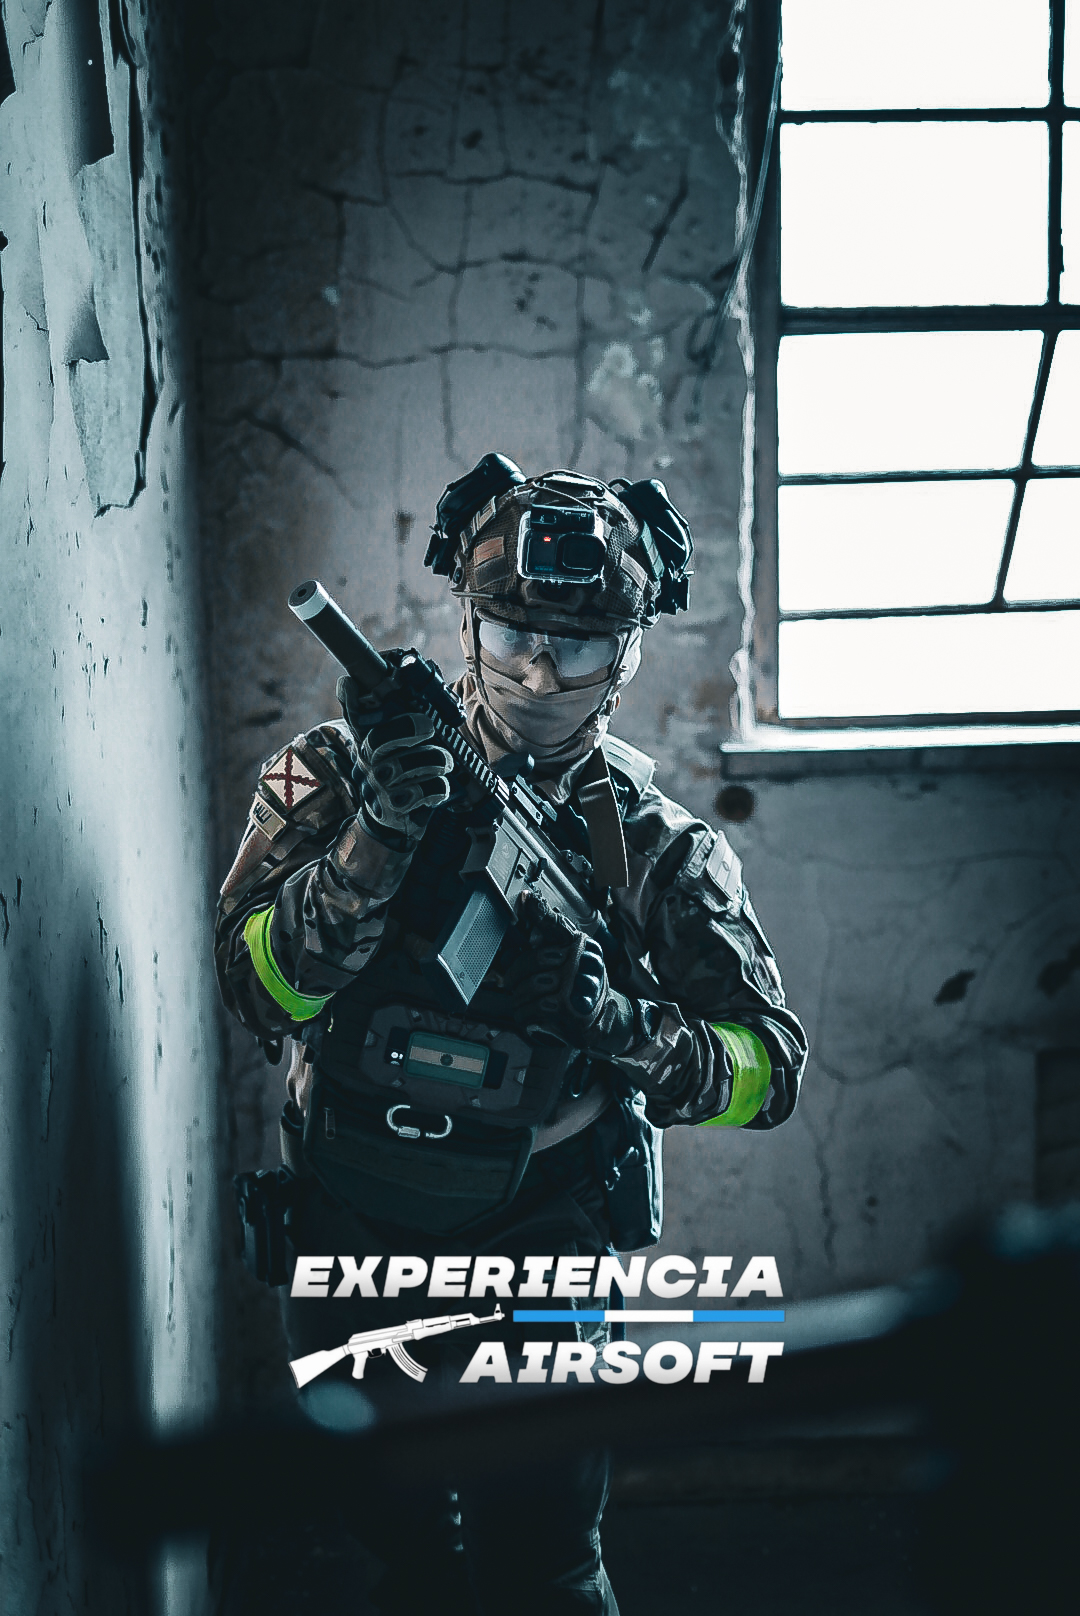
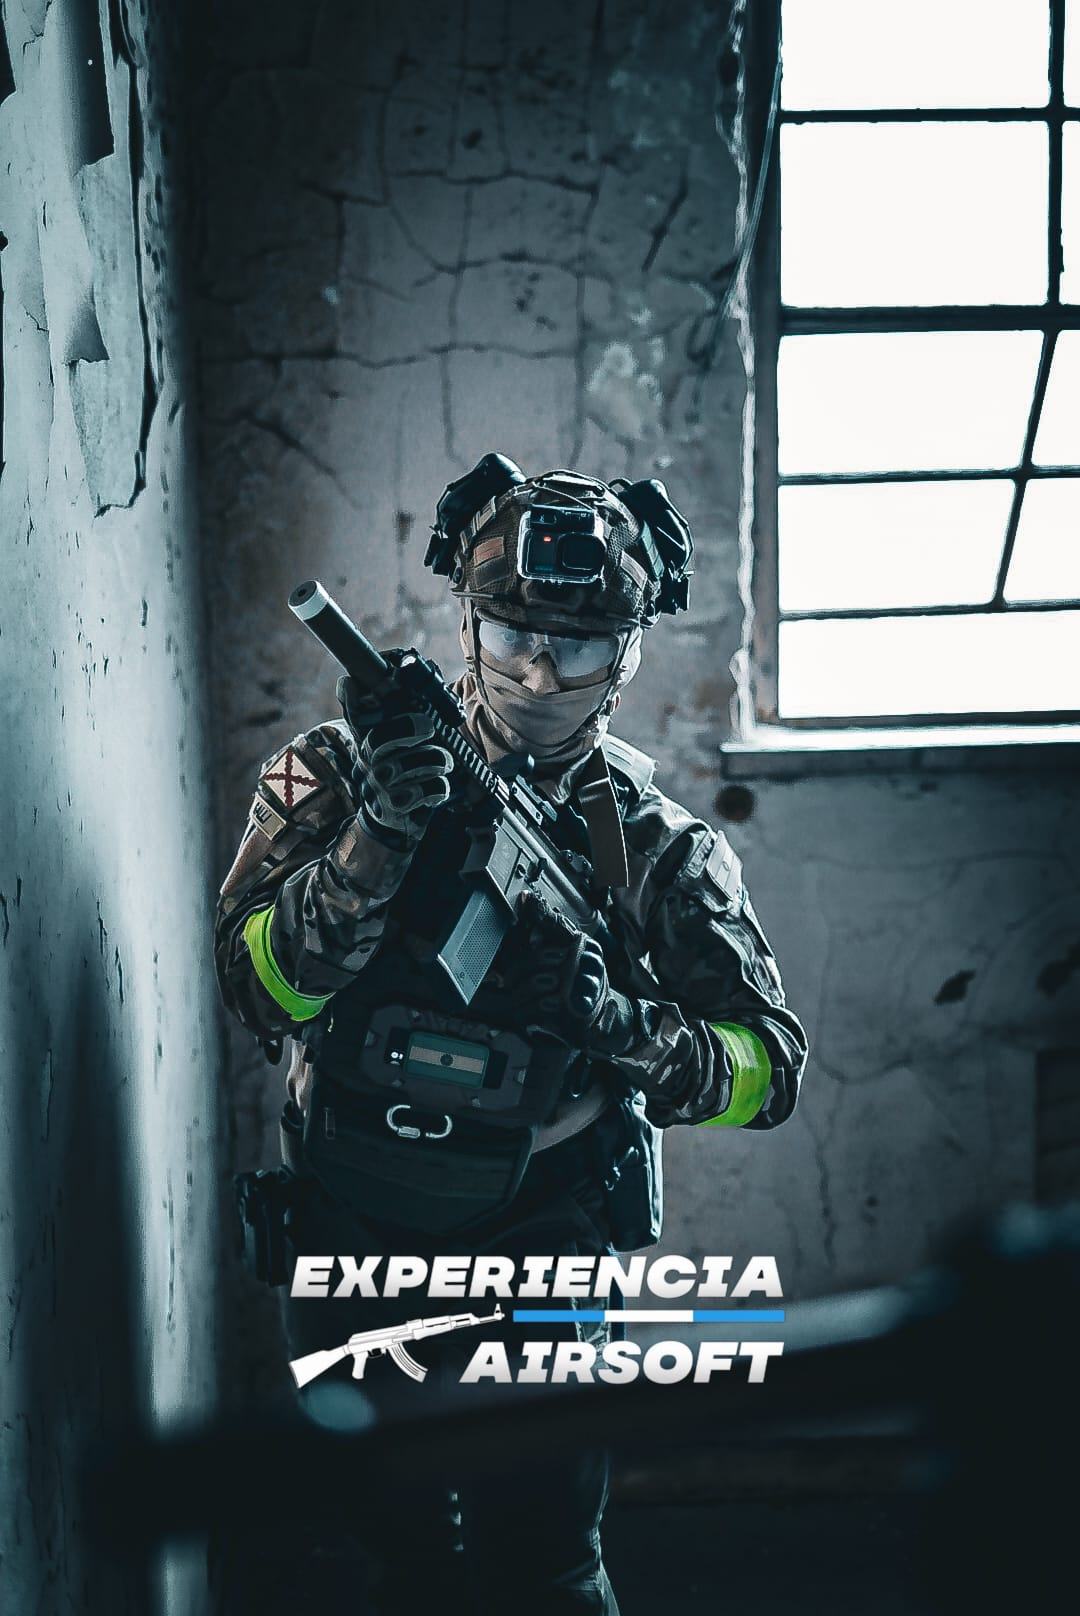
SEO: comprimir imágenes, schemas Organization/Event, FAQ visible, twitter cards
Quick wins del audit SEO:

- Imágenes: recomprimidas a JPEG q80 mozjpeg / PNG palette sin cambiar
  dimensiones. public/img 24.4MB → 4.2MB (-83%). Mejora LCP y builds.
  (Next ya servía AVIF/WebP, pero el fuente pesado ralentizaba la
  primera optimización y engordaba el repo.)

- app/page.tsx (home):
  - FAQ ahora visible como <dl>/<dt>/<dd> (antes solo en JSON-LD; Google
    ignora el FAQPage si no está visible). Fuente única FAQ_ITEMS para
    schema + HTML.
  - Nuevo Organization schema (@id #organization) con logo + sameAs
    (instagram, youtube) para Knowledge Panel.
  - Nuevo Event schema (@graph) para las 6 partidas recurrentes, con
    eventSchedule semanal, location/organizer ref al #business y offer
    a la pantalla de reservas (sin precio hardcodeado para no
    desactualizar).

- Páginas marketing (x7): twitter card explícito por página (antes
  heredaban el title genérico del root). title/description se derivan
  del title/description de cada página.

- Fonts: Oswald e Inter de 5 a 4 pesos (300/light no se usa en ningún
  lado) — menos requests de fuente.

Changed region(s): [[0.6111, 0.3094, 0.6417, 0.3403], [0.4889, 0.495, 0.5194, 0.526], [0.4583, 0.4641, 0.4889, 0.495]]

diff --git a/app/page.tsx b/app/page.tsx
@@ -424,59 +424,120 @@ const breadcrumbJsonLd = {
   ],
 };
 
+// Fuente única de las preguntas frecuentes: se usa tanto para el
+// JSON-LD (FAQPage) como para la sección visible en HTML más abajo.
+// Google ignora el FAQPage schema si las preguntas no están visibles.
+const FAQ_ITEMS: { q: string; a: string }[] = [
+  {
+    q: "¿Quiénes pueden jugar al airsoft en Experiencia Airsoft?",
+    a: "Mayores de 18 años con documento al momento del ingreso. Aceptamos jugadores nuevos y con experiencia — no hace falta tener equipo propio.",
+  },
+  {
+    q: "¿Necesito traer equipo propio?",
+    a: "No. Alquilás el equipo completo en el lugar: marcadora, protección facial, chaleco y BBs. Solo venís a jugar.",
+  },
+  {
+    q: "¿Cómo reservo una partida?",
+    a: "Todas las reservas son por WhatsApp al +54 9 11 3868-9783. Trabajamos 100% bajo reserva previa.",
+  },
+  {
+    q: "¿Dónde queda Experiencia Airsoft?",
+    a: "Gral. Conesa 1858, C1870, Ciudad Autónoma de Buenos Aires, Argentina. Somos un centro de airsoft CQB indoor.",
+  },
+  {
+    q: "¿Cuál es la potencia máxima permitida?",
+    a: "Máximo 330 FPS. Es la categoría más baja permitida para CQB y la usamos porque jugamos en espacios cerrados con distancias cortas — la experiencia táctica no se mide en potencia, sino en estrategia y trabajo en equipo.",
+  },
+  {
+    q: "¿Qué modalidades de partida ofrecen?",
+    a: "Partidas públicas abiertas (cualquiera se anota), privadas de grupo (10 a 20 personas) y eventos corporativos para empresas y team building.",
+  },
+];
+
 const faqJsonLd = {
   "@context": "https://schema.org",
   "@type": "FAQPage",
-  mainEntity: [
-    {
-      "@type": "Question",
-      name: "¿Quiénes pueden jugar al airsoft en Experiencia Airsoft?",
-      acceptedAnswer: {
-        "@type": "Answer",
-        text: "Mayores de 18 años con documento al momento del ingreso. Aceptamos jugadores nuevos y con experiencia — no hace falta tener equipo propio.",
-      },
-    },
-    {
-      "@type": "Question",
-      name: "¿Necesito traer equipo propio?",
-      acceptedAnswer: {
-        "@type": "Answer",
-        text: "No. Alquilás el equipo completo en el lugar: marcadora, protección facial, chaleco y BBs. Solo venís a jugar.",
-      },
-    },
-    {
-      "@type": "Question",
-      name: "¿Cómo reservo una partida?",
-      acceptedAnswer: {
-        "@type": "Answer",
-        text: "Todas las reservas son por WhatsApp al +54 9 11 3868-9783. Trabajamos 100% bajo reserva previa.",
-      },
-    },
-    {
-      "@type": "Question",
-      name: "¿Dónde queda Experiencia Airsoft?",
-      acceptedAnswer: {
-        "@type": "Answer",
-        text: "Gral. Conesa 1858, C1870, Ciudad Autónoma de Buenos Aires, Argentina. Somos un centro de airsoft CQB indoor.",
-      },
-    },
-    {
-      "@type": "Question",
-      name: "¿Cuál es la potencia máxima permitida?",
-      acceptedAnswer: {
-        "@type": "Answer",
-        text: "Máximo 330 FPS. Es la categoría más baja permitida para CQB y la usamos porque jugamos en espacios cerrados con distancias cortas — la experiencia táctica no se mide en potencia, sino en estrategia y trabajo en equipo.",
-      },
-    },
-    {
-      "@type": "Question",
-      name: "¿Qué modalidades de partida ofrecen?",
-      acceptedAnswer: {
-        "@type": "Answer",
-        text: "Partidas públicas abiertas (cualquiera se anota), privadas de grupo (10 a 20 personas) y eventos corporativos para empresas y team building.",
-      },
-    },
+  mainEntity: FAQ_ITEMS.map((item) => ({
+    "@type": "Question",
+    name: item.q,
+    acceptedAnswer: { "@type": "Answer", text: item.a },
+  })),
+};
+
+// Organization separada (con @id propio) para que Google arme el
+// Knowledge Panel y entienda las redes oficiales vía sameAs.
+const organizationJsonLd = {
+  "@context": "https://schema.org",
+  "@type": "Organization",
+  "@id": `${SITE_URL}/#organization`,
+  name: "Experiencia Airsoft",
+  url: SITE_URL,
+  logo: {
+    "@type": "ImageObject",
+    url: `${SITE_URL}/img/00_logo_principal.png`,
+    width: 1920,
+    height: 1920,
+  },
+  image: `${SITE_URL}/img/07_zona_fria_hero.jpg`,
+  sameAs: [
+    "https://www.instagram.com/experienciaairsoft/",
+    "https://www.youtube.com/@experienciaairsoft8250",
   ],
+  contactPoint: {
+    "@type": "ContactPoint",
+    contactType: "Reservas",
+    telephone: "+541138689783",
+    availableLanguage: ["Spanish"],
+    contactOption: "WhatsApp",
+  },
+};
+
+// Partidas públicas recurrentes como Event con eventSchedule semanal.
+// No hardcodeamos precio (cambia seguido y un precio viejo en Google es
+// peor que ninguno): el offer apunta a la pantalla de reservas.
+const DIA_TO_SCHEMA: Record<string, string> = {
+  Martes: "https://schema.org/Tuesday",
+  Miércoles: "https://schema.org/Wednesday",
+  Jueves: "https://schema.org/Thursday",
+  Viernes: "https://schema.org/Friday",
+  Sábado: "https://schema.org/Saturday",
+  Domingo: "https://schema.org/Sunday",
+};
+
+const eventsJsonLd = {
+  "@context": "https://schema.org",
+  "@graph": partidas.map((p) => {
+    const [startTime, endTime] = p.time
+      .replace(/\s*HS\s*$/i, "")
+      .split("—")
+      .map((s) => s.trim());
+    return {
+      "@type": "Event",
+      name: `Partida pública de airsoft CQB — ${p.day}`,
+      description:
+        "Partida abierta de airsoft CQB indoor en Buenos Aires. Equipo de alquiler incluido, máximo 330 FPS, +18. Cupo limitado, reserva previa.",
+      eventAttendanceMode: "https://schema.org/OfflineEventAttendanceMode",
+      eventStatus: "https://schema.org/EventScheduled",
+      eventSchedule: {
+        "@type": "Schedule",
+        byDay: DIA_TO_SCHEMA[p.day],
+        startTime,
+        endTime,
+        repeatFrequency: "P1W",
+        scheduleTimezone: "America/Argentina/Buenos_Aires",
+      },
+      location: { "@id": `${SITE_URL}/#business` },
+      organizer: { "@id": `${SITE_URL}/#business` },
+      image: `${SITE_URL}${p.image}`,
+      offers: {
+        "@type": "Offer",
+        url: "https://app.experienciaairsoft.com/partidas",
+        availability: "https://schema.org/InStock",
+        priceCurrency: "ARS",
+      },
+      isAccessibleForFree: false,
+    };
+  }),
 };
 
 export default function Home() {
@@ -489,6 +550,16 @@ export default function Home() {
         type="application/ld+json"
         // eslint-disable-next-line react/no-danger
         dangerouslySetInnerHTML={{ __html: JSON.stringify(businessJsonLd) }}
+      />
+      <script
+        type="application/ld+json"
+        // eslint-disable-next-line react/no-danger
+        dangerouslySetInnerHTML={{ __html: JSON.stringify(organizationJsonLd) }}
+      />
+      <script
+        type="application/ld+json"
+        // eslint-disable-next-line react/no-danger
+        dangerouslySetInnerHTML={{ __html: JSON.stringify(eventsJsonLd) }}
       />
       <script
         type="application/ld+json"
@@ -1377,6 +1448,31 @@ export default function Home() {
               </div>
             </a>
           </div>
+        </div>
+      </section>
+
+      {/* FAQ */}
+      <section
+        id="faq"
+        className="relative fluid-section-y bg-ink border-t border-bone/10"
+      >
+        <div className="max-w-[900px] mx-auto fluid-gutter-x">
+          <p className="sect-label mb-3 reveal">[ Preguntas frecuentes ]</p>
+          <h2 className="sect-title fluid-3xl text-bone mb-8 reveal">
+            Lo que más nos preguntan
+          </h2>
+          <dl className="space-y-7">
+            {FAQ_ITEMS.map((item) => (
+              <div key={item.q} className="reveal">
+                <dt className="font-display fluid-lg uppercase text-bone tracking-wide mb-2">
+                  {item.q}
+                </dt>
+                <dd className="text-ash fluid-base leading-relaxed">
+                  {item.a}
+                </dd>
+              </div>
+            ))}
+          </dl>
         </div>
       </section>
 

diff --git a/app/layout.tsx b/app/layout.tsx
@@ -9,16 +9,17 @@ const anton = Anton({
   display: "swap",
 });
 
+// Pesos: solo los que se usan (300/light no aparece en ningún lado).
 const oswald = Oswald({
   variable: "--font-oswald",
-  weight: ["300", "400", "500", "600", "700"],
+  weight: ["400", "500", "600", "700"],
   subsets: ["latin"],
   display: "swap",
 });
 
 const inter = Inter({
   variable: "--font-inter",
-  weight: ["300", "400", "500", "600", "700"],
+  weight: ["400", "500", "600", "700"],
   subsets: ["latin"],
   display: "swap",
 });

diff --git a/app/(marketing)/buenos-aires/page.tsx b/app/(marketing)/buenos-aires/page.tsx
@@ -31,6 +31,11 @@ export const metadata: Metadata = {
     type: "website",
     locale: "es_AR",
   },
+  twitter: {
+    // card grande; title/description se derivan del title/description
+    // de esta misma página (no del layout root).
+    card: "summary_large_image",
+  },
 };
 
 const localBusinessJsonLd = {

diff --git a/app/(marketing)/airsoft-vs-paintball/page.tsx b/app/(marketing)/airsoft-vs-paintball/page.tsx
@@ -26,6 +26,11 @@ export const metadata: Metadata = {
     type: "article",
     locale: "es_AR",
   },
+  twitter: {
+    // card grande; title/description se derivan del title/description
+    // de esta misma página (no del layout root).
+    card: "summary_large_image",
+  },
 };
 
 const articleJsonLd = {

diff --git a/app/(marketing)/cumpleanos/page.tsx b/app/(marketing)/cumpleanos/page.tsx
@@ -26,6 +26,11 @@ export const metadata: Metadata = {
     type: "website",
     locale: "es_AR",
   },
+  twitter: {
+    // card grande; title/description se derivan del title/description
+    // de esta misma página (no del layout root).
+    card: "summary_large_image",
+  },
 };
 
 const serviceJsonLd = {

diff --git a/app/(marketing)/eventos-corporativos/page.tsx b/app/(marketing)/eventos-corporativos/page.tsx
@@ -25,6 +25,11 @@ export const metadata: Metadata = {
     type: "website",
     locale: "es_AR",
   },
+  twitter: {
+    // card grande; title/description se derivan del title/description
+    // de esta misma página (no del layout root).
+    card: "summary_large_image",
+  },
 };
 
 const serviceJsonLd = {

diff --git a/app/(marketing)/precios/page.tsx b/app/(marketing)/precios/page.tsx
@@ -26,6 +26,11 @@ export const metadata: Metadata = {
     type: "website",
     locale: "es_AR",
   },
+  twitter: {
+    // card grande; title/description se derivan del title/description
+    // de esta misma página (no del layout root).
+    card: "summary_large_image",
+  },
 };
 
 const serviceJsonLd = {

diff --git a/app/(marketing)/primera-vez/page.tsx b/app/(marketing)/primera-vez/page.tsx
@@ -26,6 +26,11 @@ export const metadata: Metadata = {
     type: "article",
     locale: "es_AR",
   },
+  twitter: {
+    // card grande; title/description se derivan del title/description
+    // de esta misma página (no del layout root).
+    card: "summary_large_image",
+  },
 };
 
 const howToJsonLd = {

diff --git a/app/(marketing)/blog/page.tsx b/app/(marketing)/blog/page.tsx
@@ -22,6 +22,11 @@ export const metadata: Metadata = {
     type: "website",
     locale: "es_AR",
   },
+  twitter: {
+    // card grande; title/description se derivan del title/description
+    // de esta misma página (no del layout root).
+    card: "summary_large_image",
+  },
 };
 
 const blogJsonLd = {
